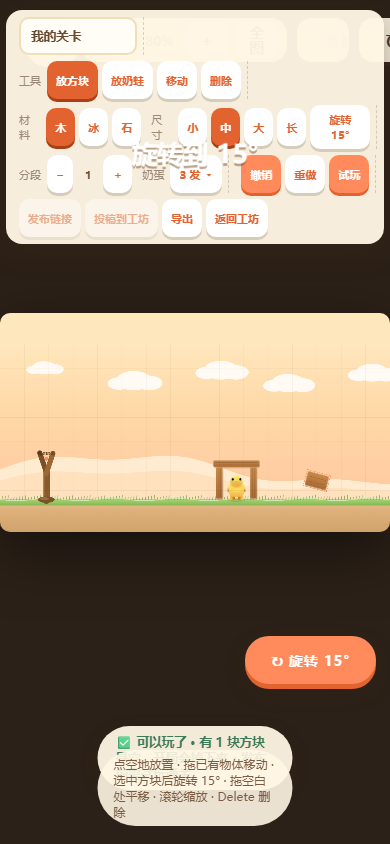
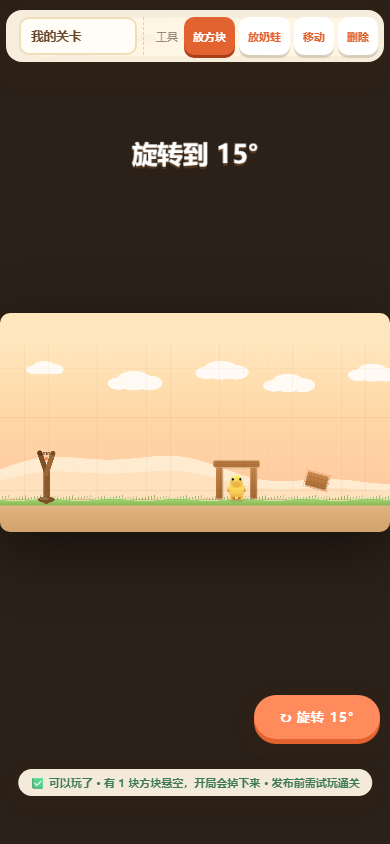
优化手机端界面并过滤零赞周榜

diff --git a/dist/奶蛋弹弓-单文件.html b/dist/奶蛋弹弓-单文件.html
@@ -323,16 +323,55 @@
   #edStatus.bad { color: #c2410c; }
   #edRotateFloat { display: none; }
   @media (max-width: 700px) {
-    #edTop { max-width: calc(100vw - 12px); gap: 6px; padding: 7px; font-size: 11px; }
+    #hint, #edHint { display: none; }
+    #score { font-size: 22px; padding: 5px 15px; }
+    #hudRight { gap: 5px; }
+    .iconBtn { width: 38px; height: 38px; font-size: 17px; }
+    .iconBtn.small { height: 32px; font-size: 13px; }
+    #zoomBox { gap: 4px; padding: 3px 6px; }
+    #zoomLabel { min-width: 34px; font-size: 11px; }
+    #edTop {
+      max-width: calc(100vw - 12px); gap: 6px; padding: 7px; font-size: 11px;
+      flex-wrap: nowrap; overflow-x: auto; overflow-y: hidden;
+      align-items: center; touch-action: pan-x; -webkit-overflow-scrolling: touch;
+      scrollbar-width: none;
+    }
+    #edTop::-webkit-scrollbar { display: none; }
+    #edTop .grp { flex: none; }
     #edTop button { min-height: 38px; padding: 7px 9px; font-size: 11px; touch-action: manipulation; }
     #edTop input[type=text] { width: 118px; min-height: 38px; }
+    #edStatus {
+      max-width: calc(100vw - 24px); bottom: 48px; padding: 6px 12px;
+      font-size: 11px; white-space: nowrap; overflow: hidden; text-overflow: ellipsis;
+    }
     #edRotateFloat:not(.hide) {
-      display: block; position: absolute; right: 14px; bottom: 160px; z-index: 4;
-      pointer-events: auto; min-width: 116px; min-height: 48px;
-      background: var(--jam); color: #fff; font-size: 14px;
+      display: block; position: absolute; right: 10px; bottom: 105px; z-index: 4;
+      pointer-events: auto; min-width: 108px; min-height: 44px;
+      background: var(--jam); color: #fff; font-size: 13px;
       box-shadow: 0 5px 0 var(--jam-dark), 0 8px 20px rgba(60,38,20,.25);
       touch-action: manipulation;
     }
+    #workshopScreen .panel.wide { padding: 14px 10px; border-radius: 18px; }
+    #workshopScreen .wkTop h2 { font-size: 22px; }
+    #workshopScreen .sub { font-size: 11px; line-height: 1.45; }
+    #workshopScreen .wkTop button { padding: 8px 14px; font-size: 12px; }
+    #wkCommunity, #wkWeekly { grid-template-columns: repeat(2, minmax(0, 1fr)); gap: 8px; }
+    .wkPreview { height: 64px; }
+    .wkCardBody { padding: 6px 7px 7px; gap: 3px; }
+    .wkCardTitle { font-size: 12px; }
+    .wkCardAuthor { font-size: 9.5px; }
+    .wkCardMeta { font-size: 9px; }
+    .wkCardInfo { display: none; }
+    .wkCardFoot { gap: 4px; }
+    .wkPlay { padding: 6px 4px; font-size: 11px; }
+    .wkLike { min-width: 44px; padding: 6px 4px; font-size: 10.5px; }
+    .wkSectionHead { margin: 10px 2px 6px; }
+    .wkSectionHead b { font-size: 12px; }
+    .wkSectionHead span { font-size: 9.5px; }
+    .wkToolbar { gap: 6px; }
+    #wkSearch { min-width: 125px; padding: 7px 9px; font-size: 11px; }
+    #wkSort button { padding: 5px 7px; font-size: 10px; }
+    #btnWkRefresh { padding: 6px 8px; font-size: 11px; }
   }
   #edHint {
     pointer-events: none; position: absolute; left: 50%; bottom: 18px; transform: translateX(-50%);
@@ -2514,7 +2553,7 @@ window.WorkshopCommunity = (() => {
   const world = engine.world;
   /** 版本戳：每次改完随手改一下，标题页角落和 window.__nai.build 都能看到，
    *  方便确认浏览器里跑的是不是最新那份（file:// 打开时页面不会自己刷新） */
-  const BUILD = '2026-10-17 · 蓝色瞄准辅助线';
+  const BUILD = '2026-10-17 · 移动端优化与周榜过滤';
   let state = 'title'; // title | pick | intro | aim | fly | settling | clearing | over
   let score = 0;
   let birdsLeft = 0;
@@ -5507,7 +5546,7 @@ window.WorkshopCommunity = (() => {
     author.className = 'wkCardAuthor';
     author.textContent = `作者 · ${entry.author}`;
     const meta = document.createElement('div');
-    meta.className = 'wkCardMeta';
+    meta.className = 'wkCardMeta wkCardInfo';
     meta.textContent = `${entry.def.pigs.length} 奶蛙 · ${entry.def.blocks.length} 方块 · ${entry.def.birds.length} 发 · ${entry.def.launchPoints.length} 段`;
     const counts = document.createElement('div');
     counts.className = 'wkCardMeta';
@@ -5613,17 +5652,26 @@ window.WorkshopCommunity = (() => {
   const prepareWeekly = async () => {
     const period = window.WorkshopCommunity.weeklyPeriod();
     wkWeeklyKey = period.key;
-    let ids = await window.WorkshopCommunity.loadWeeklySnapshot(period.key);
-    if (!ids) {
-      const when = (entry) => new Date(entry.submittedAt || 0).getTime() || 0;
-      ids = wkEntries.slice().sort((a, b) =>
+    const loaded = await window.WorkshopCommunity.loadWeeklySnapshot(period.key);
+    const when = (entry) => new Date(entry.submittedAt || 0).getTime() || 0;
+    const positive = wkEntries
+      .filter((entry) => communityStat(entry).likes > 0)
+      .sort((a, b) =>
         communityStat(b).likes - communityStat(a).likes
         || communityStat(b).plays - communityStat(a).plays
         || when(b) - when(a)
-      ).slice(0, 6).map((entry) => entry.id);
-      if (ids.length) await window.WorkshopCommunity.saveWeeklySnapshot(period.key, ids);
+      )
+      .map((entry) => entry.id);
+    let ids = Array.isArray(loaded)
+      ? loaded.filter((id) => positive.includes(id)).slice(0, 6)
+      : [];
+    if (ids.length < 6) {
+      ids.push(...positive.filter((id) => !ids.includes(id)).slice(0, 6 - ids.length));
     }
-    wkWeeklyIds = Array.isArray(ids) ? ids.slice(0, 6) : [];
+    wkWeeklyIds = ids;
+    if (ids.length && (!loaded || ids.some((id, i) => loaded[i] !== id) || ids.length !== loaded.length)) {
+      await window.WorkshopCommunity.saveWeeklySnapshot(period.key, ids);
+    }
   };
 
   const loadCommunity = async (force = false) => {

diff --git a/index.html b/index.html
@@ -323,16 +323,55 @@
   #edStatus.bad { color: #c2410c; }
   #edRotateFloat { display: none; }
   @media (max-width: 700px) {
-    #edTop { max-width: calc(100vw - 12px); gap: 6px; padding: 7px; font-size: 11px; }
+    #hint, #edHint { display: none; }
+    #score { font-size: 22px; padding: 5px 15px; }
+    #hudRight { gap: 5px; }
+    .iconBtn { width: 38px; height: 38px; font-size: 17px; }
+    .iconBtn.small { height: 32px; font-size: 13px; }
+    #zoomBox { gap: 4px; padding: 3px 6px; }
+    #zoomLabel { min-width: 34px; font-size: 11px; }
+    #edTop {
+      max-width: calc(100vw - 12px); gap: 6px; padding: 7px; font-size: 11px;
+      flex-wrap: nowrap; overflow-x: auto; overflow-y: hidden;
+      align-items: center; touch-action: pan-x; -webkit-overflow-scrolling: touch;
+      scrollbar-width: none;
+    }
+    #edTop::-webkit-scrollbar { display: none; }
+    #edTop .grp { flex: none; }
     #edTop button { min-height: 38px; padding: 7px 9px; font-size: 11px; touch-action: manipulation; }
     #edTop input[type=text] { width: 118px; min-height: 38px; }
+    #edStatus {
+      max-width: calc(100vw - 24px); bottom: 48px; padding: 6px 12px;
+      font-size: 11px; white-space: nowrap; overflow: hidden; text-overflow: ellipsis;
+    }
     #edRotateFloat:not(.hide) {
-      display: block; position: absolute; right: 14px; bottom: 160px; z-index: 4;
-      pointer-events: auto; min-width: 116px; min-height: 48px;
-      background: var(--jam); color: #fff; font-size: 14px;
+      display: block; position: absolute; right: 10px; bottom: 105px; z-index: 4;
+      pointer-events: auto; min-width: 108px; min-height: 44px;
+      background: var(--jam); color: #fff; font-size: 13px;
       box-shadow: 0 5px 0 var(--jam-dark), 0 8px 20px rgba(60,38,20,.25);
       touch-action: manipulation;
     }
+    #workshopScreen .panel.wide { padding: 14px 10px; border-radius: 18px; }
+    #workshopScreen .wkTop h2 { font-size: 22px; }
+    #workshopScreen .sub { font-size: 11px; line-height: 1.45; }
+    #workshopScreen .wkTop button { padding: 8px 14px; font-size: 12px; }
+    #wkCommunity, #wkWeekly { grid-template-columns: repeat(2, minmax(0, 1fr)); gap: 8px; }
+    .wkPreview { height: 64px; }
+    .wkCardBody { padding: 6px 7px 7px; gap: 3px; }
+    .wkCardTitle { font-size: 12px; }
+    .wkCardAuthor { font-size: 9.5px; }
+    .wkCardMeta { font-size: 9px; }
+    .wkCardInfo { display: none; }
+    .wkCardFoot { gap: 4px; }
+    .wkPlay { padding: 6px 4px; font-size: 11px; }
+    .wkLike { min-width: 44px; padding: 6px 4px; font-size: 10.5px; }
+    .wkSectionHead { margin: 10px 2px 6px; }
+    .wkSectionHead b { font-size: 12px; }
+    .wkSectionHead span { font-size: 9.5px; }
+    .wkToolbar { gap: 6px; }
+    #wkSearch { min-width: 125px; padding: 7px 9px; font-size: 11px; }
+    #wkSort button { padding: 5px 7px; font-size: 10px; }
+    #btnWkRefresh { padding: 6px 8px; font-size: 11px; }
   }
   #edHint {
     pointer-events: none; position: absolute; left: 50%; bottom: 18px; transform: translateX(-50%);

diff --git a/js/game.js b/js/game.js
@@ -249,7 +249,7 @@
   const world = engine.world;
   /** 版本戳：每次改完随手改一下，标题页角落和 window.__nai.build 都能看到，
    *  方便确认浏览器里跑的是不是最新那份（file:// 打开时页面不会自己刷新） */
-  const BUILD = '2026-10-17 · 蓝色瞄准辅助线';
+  const BUILD = '2026-10-17 · 移动端优化与周榜过滤';
   let state = 'title'; // title | pick | intro | aim | fly | settling | clearing | over
   let score = 0;
   let birdsLeft = 0;
@@ -3242,7 +3242,7 @@
     author.className = 'wkCardAuthor';
     author.textContent = `作者 · ${entry.author}`;
     const meta = document.createElement('div');
-    meta.className = 'wkCardMeta';
+    meta.className = 'wkCardMeta wkCardInfo';
     meta.textContent = `${entry.def.pigs.length} 奶蛙 · ${entry.def.blocks.length} 方块 · ${entry.def.birds.length} 发 · ${entry.def.launchPoints.length} 段`;
     const counts = document.createElement('div');
     counts.className = 'wkCardMeta';
@@ -3348,17 +3348,26 @@
   const prepareWeekly = async () => {
     const period = window.WorkshopCommunity.weeklyPeriod();
     wkWeeklyKey = period.key;
-    let ids = await window.WorkshopCommunity.loadWeeklySnapshot(period.key);
-    if (!ids) {
-      const when = (entry) => new Date(entry.submittedAt || 0).getTime() || 0;
-      ids = wkEntries.slice().sort((a, b) =>
+    const loaded = await window.WorkshopCommunity.loadWeeklySnapshot(period.key);
+    const when = (entry) => new Date(entry.submittedAt || 0).getTime() || 0;
+    const positive = wkEntries
+      .filter((entry) => communityStat(entry).likes > 0)
+      .sort((a, b) =>
         communityStat(b).likes - communityStat(a).likes
         || communityStat(b).plays - communityStat(a).plays
         || when(b) - when(a)
-      ).slice(0, 6).map((entry) => entry.id);
-      if (ids.length) await window.WorkshopCommunity.saveWeeklySnapshot(period.key, ids);
+      )
+      .map((entry) => entry.id);
+    let ids = Array.isArray(loaded)
+      ? loaded.filter((id) => positive.includes(id)).slice(0, 6)
+      : [];
+    if (ids.length < 6) {
+      ids.push(...positive.filter((id) => !ids.includes(id)).slice(0, 6 - ids.length));
     }
-    wkWeeklyIds = Array.isArray(ids) ? ids.slice(0, 6) : [];
+    wkWeeklyIds = ids;
+    if (ids.length && (!loaded || ids.some((id, i) => loaded[i] !== id) || ids.length !== loaded.length)) {
+      await window.WorkshopCommunity.saveWeeklySnapshot(period.key, ids);
+    }
   };
 
   const loadCommunity = async (force = false) => {

diff --git a/README.md b/README.md
@@ -100,7 +100,8 @@
 - 显示 **游玩人数** 和 **点赞数**；点爱心会立刻 +1，同一浏览器对同一张图只算一次
 - 支持 **最新 / 最多游玩 / 最多点赞** 三种排序，也能按关卡名或作者搜索
 - **每周榜**：每周五 24:00（北京时间）全榜重置，所有关卡重新参与排名；
-  单周内点赞前 6 固定在上方，后来的新关卡只进入下方列表，不会把这 6 张挤掉
+  单周内点赞前 6 固定在上方，后来的新关卡只进入下方列表，不会把这 6 张挤掉；
+  **点赞为 0 的关卡不会进入本周前 6**
 - 点「开玩」直接进关，不会弹开局选蛋；关卡阵容就是作者配置的最终阵容
 - **关卡名和用户名有内容限制**：辱骂、色情、违法交易/诈骗、手机号、社交账号、邮箱和网址会被拦截；
   编辑器、投稿面板和 Supabase 插入触发器三处都会检查
@@ -463,6 +464,7 @@ node tools/smoke.mjs showcase   # 只抓几张过程图
     新建关卡的默认关（3 方块 1 蛙）校验零错误；点空地能放方块/奶蛙、拖动能挪位置、拖空白能平移镜头；
     撤销/重做、改分段数、按种类配奶蛋阵容（例如 2 爆 + 1 基础）、分享码来回解（260 字符左右、解出来一致）、
     方块旋转 15° 能生效并随分享码往返，390px 手机视口出现足够大的浮动旋转按钮；
+    390px 手机端社区为两列、卡片宽 ≤190px，编辑器工具栏单行横向滑动；
     重叠位置禁止放方块/奶蛙，拖动或旋转造成重叠会退回；
     试玩进的是 `mode=custom` 且方块/奶蛙数与编辑器一致、HUD 的“← 编辑器”能中途回编辑器、
     两段清完能结算、结算面板有"回编辑器"且回来东西还在；
@@ -471,6 +473,7 @@ node tools/smoke.mjs showcase   # 只抓几张过程图
 35. **社区工坊**：目录至少 6 张图全部能解出来；卡片数、作者和多维信息正确；
     搜索“冰屋”只剩 1 张；最多游玩/最多点赞排序生效；点赞 +1 并记住本机已赞；
     本周点赞前 6 单独锁定，周五 24:00 北京时间边界换榜，新投稿只进下方列表；
+    0 赞关卡不得进入本周前 6；
     从卡片开玩会记录游玩人数、直接进自制关卡且不弹选蛋；投稿面板能匿名插入 Supabase 并立刻刷新目录；
     违禁关卡名会禁用试玩/发布，违禁用户名会拦住投稿，分隔符绕写和广告联系方式也要识别；
     源码版和单文件版的 `file://` 直开都能加载完整社区目录
@@ -566,6 +569,7 @@ node tools/smoke.mjs showcase   # 只抓几张过程图
   能看人气，但没有账号级防刷和举报后台。
 - 编辑器建议用电脑：手机能点、能放，但"拖一个小方块到精确位置"这种操作还是鼠标舒服。
   手机端选中方块后，右下角会浮出 48px 的旋转按钮，触摸一次转 15°。
+  手机编辑器工具栏改成了单行横向滑动，底部长提示隐藏，尽量减少遮挡地图；社区卡片改为两列紧凑布局。
 - 自定义关卡还没有"能不能打通"的自动校验（只校验摆位合法、奶蛙在射程内），
   奶蛋给太少的话可能本来就是打不过的。
 
